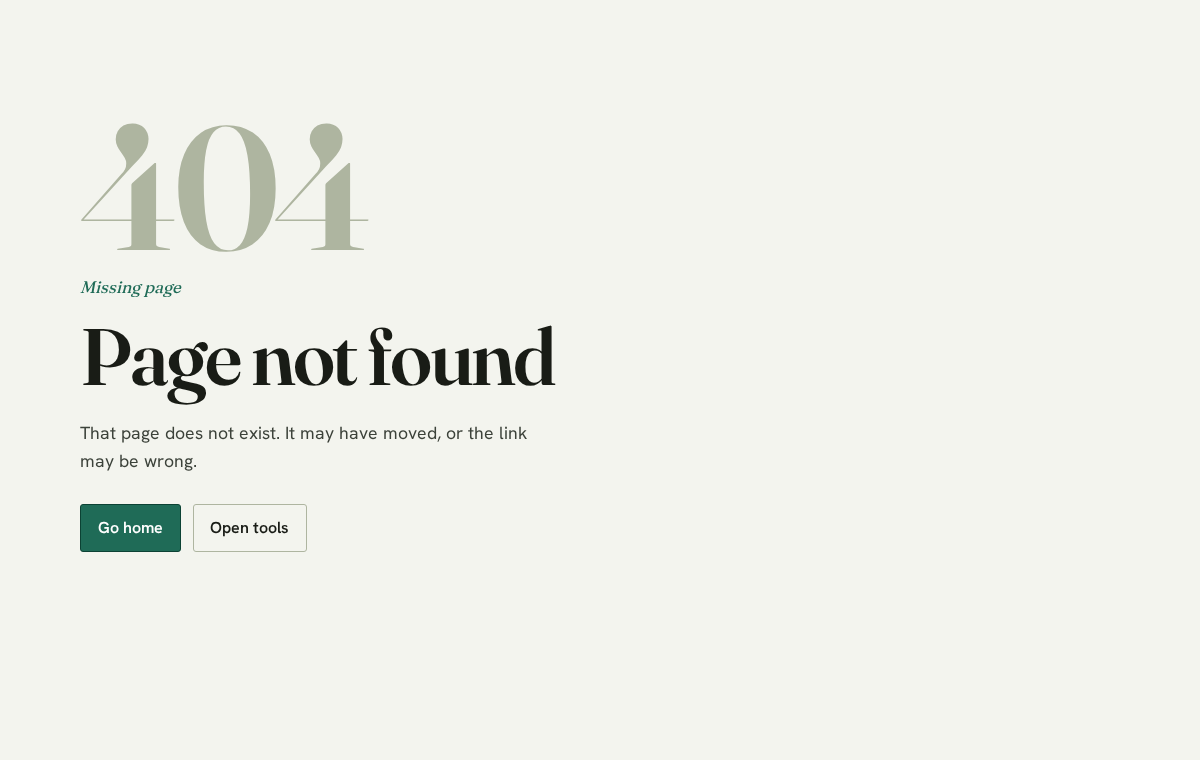
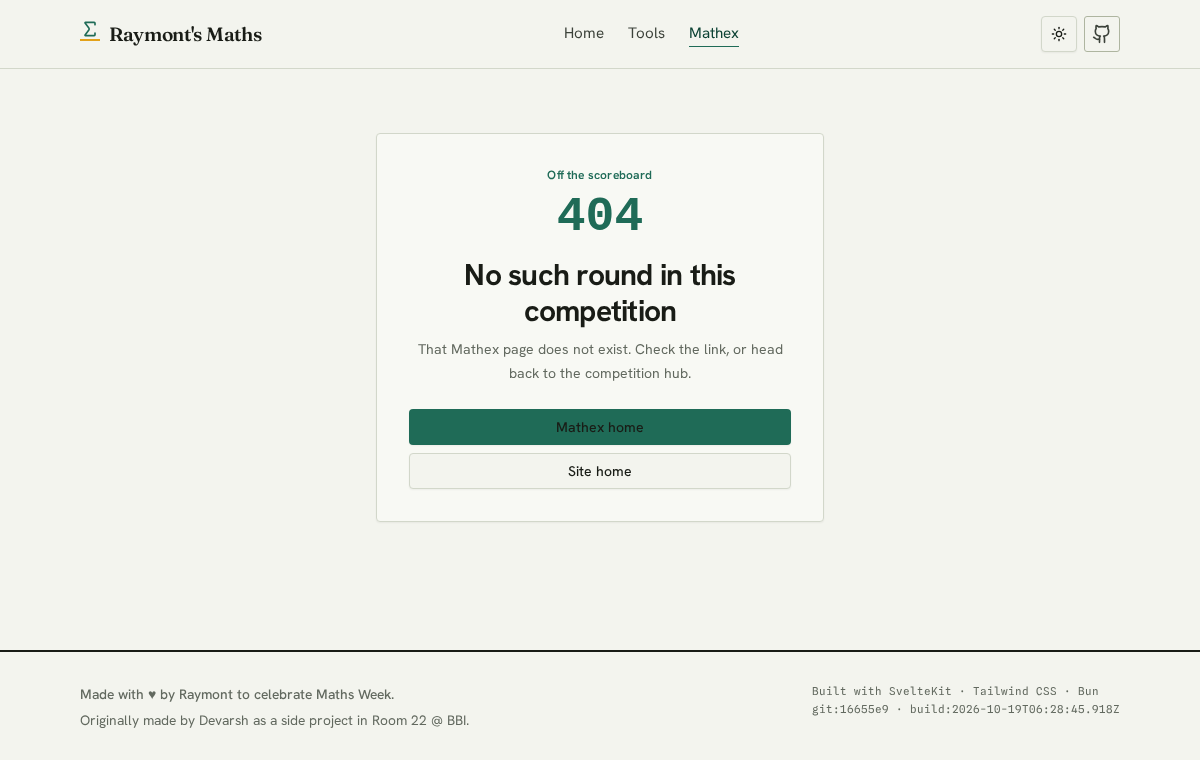
feat(error): show site chrome and Mathex-specific error pages
Route every error through one shared ErrorPage component so the public
site, main site, and Mathex errors look consistent.

- Render the site header and footer on all error pages.
- Give Mathex 404s and errors the Mathex panel, with a filled button to
  the Mathex app and a white button to the site home page.
- Replace generic error copy with maths-themed wording.
- Refresh the after screenshots to match.

diff --git a/src/lib/components/ErrorPage.svelte b/src/lib/components/ErrorPage.svelte
@@ -1,0 +1,125 @@
+<script lang="ts">
+  import "../../app.css";
+  import { page } from "$app/state";
+  import { Button } from "#lib/components/ui/button/index.js";
+  import { Header } from "#lib/components/ui/header/index.js";
+  import SiteNav from "#lib/components/SiteNav.svelte";
+  import SiteFooter from "#lib/components/SiteFooter.svelte";
+  import { reportIssueUrl } from "#lib/utils.js";
+
+  const isMathex = $derived(page.url.pathname.startsWith("/mathex"));
+  const isNotFound = $derived(page.status === 404);
+  const isServerError = $derived(page.status >= 500);
+  const issueUrl = $derived(reportIssueUrl(page.status, page.url.href, page.error?.message));
+
+  const eyebrow = $derived(
+    isNotFound
+      ? isMathex
+        ? "Off the scoreboard"
+        : "Undefined here"
+      : isServerError
+        ? "Calculation failed"
+        : "Request problem"
+  );
+  const title = $derived(
+    isNotFound
+      ? isMathex
+        ? "No such round in this competition"
+        : "This page is not on the number line"
+      : isServerError
+        ? isMathex
+          ? "The scoreboard froze"
+          : "Our working went wrong"
+        : (page.error?.message ?? "Something went wrong")
+  );
+  const lead = $derived(
+    isNotFound
+      ? isMathex
+        ? "That Mathex page does not exist. Check the link, or head back to the competition hub."
+        : "We checked every factor and this page is not among them. It may have moved, or the link may have a typo."
+      : isServerError
+        ? "Something broke on our side. Refresh and try again. If it keeps happening, tell us what you were doing."
+        : "Check the link or the number you entered and try again."
+  );
+</script>
+
+<svelte:head><title>{page.status} · {isMathex ? "Mathex" : "Raymont's Maths"}</title></svelte:head>
+
+<div class="public-site flex min-h-screen flex-col" class:mathex-app={isMathex}>
+  <SiteNav />
+
+  <main class="flex-1">
+    {#if isMathex}
+      <div class="mathex-shell flex min-h-[60vh] items-center justify-center px-3 py-16 sm:px-6">
+        <section class="mathex-panel w-full max-w-md p-6 text-center sm:p-8">
+          <p class="mathex-kicker">{eyebrow}</p>
+          <p class="mt-2 font-mono text-5xl font-bold text-primary">{page.status}</p>
+          <Header size="h2" class="mt-4 text-2xl">{title}</Header>
+          <p class="mt-2 text-sm leading-6 text-muted-foreground">{lead}</p>
+          {#if isServerError}
+            <div class="mt-6 flex flex-col gap-2">
+              <Button onclick={() => location.reload()} class="w-full">Refresh</Button>
+              <Button href={issueUrl} target="_blank" rel="noreferrer" variant="outline" class="w-full"
+                >Report an issue</Button
+              >
+              <Button href="/mathex/app" variant="ghost" class="w-full">Mathex home</Button>
+            </div>
+          {:else if isNotFound}
+            <div class="mt-6 flex flex-col gap-2">
+              <Button href="/mathex/app" class="w-full">Mathex home</Button>
+              <Button href="/" variant="outline" class="w-full">Site home</Button>
+            </div>
+          {:else}
+            <div class="mt-6 flex flex-col gap-2">
+              <Button href="/mathex/app" class="w-full">Mathex home</Button>
+            </div>
+          {/if}
+        </section>
+      </div>
+    {:else}
+      <section class="site-wrap error-page">
+        <p class="error-code" aria-hidden="true">{page.status}</p>
+        <p class="site-eyebrow">{eyebrow}</p>
+        <h1 class="site-title">{title}</h1>
+        <p class="site-lead">{lead}</p>
+        {#if isServerError}
+          <div class="site-actions">
+            <button type="button" class="site-button site-button-primary" onclick={() => location.reload()}
+              >Refresh</button
+            >
+            <a class="site-button site-button-secondary" href={issueUrl} target="_blank" rel="noreferrer"
+              >Report an issue</a
+            >
+            <a class="site-button site-button-secondary" href="/">Go home</a>
+          </div>
+        {:else if isNotFound}
+          <div class="site-actions">
+            <a class="site-button site-button-primary" href="/">Go home</a>
+            <a class="site-button site-button-secondary" href="/tools">Explore the tools</a>
+          </div>
+        {:else}
+          <div class="site-actions">
+            <a class="site-button site-button-primary" href="/">Go home</a>
+          </div>
+        {/if}
+      </section>
+    {/if}
+  </main>
+
+  <SiteFooter />
+</div>
+
+<style>
+  .error-page {
+    padding-block: clamp(3rem, 9vw, 7rem);
+  }
+  .error-code {
+    margin: 0 0 0.5rem;
+    color: var(--line-strong);
+    font-family: "Fraunces", Georgia, serif;
+    font-size: clamp(5.5rem, 22vw, 11rem);
+    font-weight: 600;
+    line-height: 0.9;
+    letter-spacing: -0.04em;
+  }
+</style>

diff --git a/src/routes/+error.svelte b/src/routes/+error.svelte
@@ -1,64 +1,5 @@
 <script lang="ts">
-  import "../app.css";
-  import { page } from "$app/state";
-  import { reportIssueUrl } from "#lib/utils.js";
-
-  const isNotFound = $derived(page.status === 404);
-  const isServerError = $derived(page.status >= 500);
-  const issueUrl = $derived(reportIssueUrl(page.status, page.url.href, page.error?.message));
-
-  const eyebrow = $derived(isNotFound ? "Missing page" : isServerError ? "Server error" : "Request error");
-  const title = $derived(
-    isNotFound
-      ? "Page not found"
-      : isServerError
-        ? "Something went wrong on our end"
-        : (page.error?.message ?? "Something went wrong")
-  );
+  import ErrorPage from "#lib/components/ErrorPage.svelte";
 </script>
 
-<svelte:head><title>{page.status} · Raymont's Maths</title></svelte:head>
-
-<div class="public-site flex min-h-screen flex-col">
-  <section class="site-wrap error-page">
-    <p class="error-code" aria-hidden="true">{page.status}</p>
-    <p class="site-eyebrow">{eyebrow}</p>
-    <h1 class="site-title">{title}</h1>
-    {#if isServerError}
-      <p class="site-lead">Try refreshing the page. If it keeps happening, please report it.</p>
-      <div class="site-actions">
-        <button type="button" class="site-button site-button-primary" onclick={() => location.reload()}>Refresh</button>
-        <a class="site-button site-button-secondary" href={issueUrl} target="_blank" rel="noreferrer">Report an issue</a
-        >
-        <a class="site-button site-button-secondary" href="/">Go home</a>
-      </div>
-    {:else if isNotFound}
-      <p class="site-lead">That page does not exist. It may have moved, or the link may be wrong.</p>
-      <div class="site-actions">
-        <a class="site-button site-button-primary" href="/">Go home</a>
-        <a class="site-button site-button-secondary" href="/tools">Open tools</a>
-      </div>
-    {:else}
-      <p class="site-lead">Check the link and try again.</p>
-      <div class="site-actions">
-        <a class="site-button site-button-primary" href="/">Go home</a>
-      </div>
-    {/if}
-  </section>
-</div>
-
-<style>
-  .error-page {
-    position: relative;
-    padding-block: clamp(3rem, 9vw, 7rem);
-  }
-  .error-code {
-    margin: 0 0 0.5rem;
-    color: var(--line-strong);
-    font-family: "Fraunces", Georgia, serif;
-    font-size: clamp(5.5rem, 22vw, 11rem);
-    font-weight: 600;
-    line-height: 0.9;
-    letter-spacing: -0.04em;
-  }
-</style>
+<ErrorPage />

diff --git a/src/routes/(mathex)/mathex/app/+error.svelte b/src/routes/(mathex)/mathex/app/+error.svelte
@@ -1,54 +1,5 @@
 <script lang="ts">
-  import { page } from "$app/state";
-  import { Button } from "#lib/components/ui/button/index.js";
-  import { Header } from "#lib/components/ui/header/index.js";
-  import { reportIssueUrl } from "#lib/utils.js";
-
-  const isNotFound = $derived(page.status === 404);
-  const isServerError = $derived(page.status >= 500);
-  const issueUrl = $derived(reportIssueUrl(page.status, page.url.href, page.error?.message));
-
-  const eyebrow = $derived(isNotFound ? "Missing page" : isServerError ? "Server error" : "Request error");
-  const title = $derived(
-    isNotFound
-      ? "Page not found"
-      : isServerError
-        ? "Something went wrong"
-        : (page.error?.message ?? "Something went wrong")
-  );
+  import ErrorPage from "#lib/components/ErrorPage.svelte";
 </script>
 
-<svelte:head><title>{page.status} - Mathex</title></svelte:head>
-
-<div class="mathex-shell flex min-h-screen items-center justify-center px-3 py-10 sm:px-6">
-  <main class="mathex-panel w-full max-w-md p-6 sm:p-8">
-    <p class="mathex-kicker">{eyebrow}</p>
-    <p class="mt-2 font-mono text-5xl font-bold text-primary">{page.status}</p>
-    <Header size="h2" class="mt-4 text-2xl">{title}</Header>
-    {#if isServerError}
-      <p class="mt-2 text-sm leading-6 text-muted-foreground">
-        Try refreshing. If it keeps happening, please report it.
-      </p>
-      <div class="mt-6 flex flex-col gap-2">
-        <Button onclick={() => location.reload()} class="w-full">Refresh</Button>
-        <Button href={issueUrl} target="_blank" rel="noreferrer" variant="outline" class="w-full"
-          >Report an issue</Button
-        >
-        <Button href="/mathex/app" variant="ghost" class="w-full">Mathex home</Button>
-      </div>
-    {:else if isNotFound}
-      <p class="mt-2 text-sm leading-6 text-muted-foreground">
-        That mathex page does not exist. It may have moved, or the link may be wrong.
-      </p>
-      <div class="mt-6 flex flex-col gap-2">
-        <Button href="/mathex/app" class="w-full">Mathex home</Button>
-        <Button href="/mathex/app/play" variant="outline" class="w-full">Join a competition</Button>
-      </div>
-    {:else}
-      <p class="mt-2 text-sm leading-6 text-muted-foreground">Check the link and try again.</p>
-      <div class="mt-6 flex flex-col gap-2">
-        <Button href="/mathex/app" class="w-full">Mathex home</Button>
-      </div>
-    {/if}
-  </main>
-</div>
+<ErrorPage />

diff --git a/src/routes/(main)/+error.svelte b/src/routes/(main)/+error.svelte
@@ -1,59 +1,5 @@
 <script lang="ts">
-  import { page } from "$app/state";
-  import { reportIssueUrl } from "#lib/utils.js";
-
-  const isNotFound = $derived(page.status === 404);
-  const isServerError = $derived(page.status >= 500);
-  const issueUrl = $derived(reportIssueUrl(page.status, page.url.href, page.error?.message));
-
-  const eyebrow = $derived(isNotFound ? "Missing page" : isServerError ? "Server error" : "Request error");
-  const title = $derived(
-    isNotFound
-      ? "Page not found"
-      : isServerError
-        ? "Something went wrong"
-        : (page.error?.message ?? "Something went wrong")
-  );
+  import ErrorPage from "#lib/components/ErrorPage.svelte";
 </script>
 
-<svelte:head><title>{page.status} · Raymont's Maths</title></svelte:head>
-
-<section class="site-wrap error-page">
-  <p class="error-code" aria-hidden="true">{page.status}</p>
-  <p class="site-eyebrow">{eyebrow}</p>
-  <h1 class="site-title">{title}</h1>
-  {#if isServerError}
-    <p class="site-lead">Try refreshing the page. If it keeps happening, please report it.</p>
-    <div class="site-actions">
-      <button type="button" class="site-button site-button-primary" onclick={() => location.reload()}>Refresh</button>
-      <a class="site-button site-button-secondary" href={issueUrl} target="_blank" rel="noreferrer">Report an issue</a>
-      <a class="site-button site-button-secondary" href="/">Go home</a>
-    </div>
-  {:else if isNotFound}
-    <p class="site-lead">That page does not exist. It may have moved, or the link may be wrong.</p>
-    <div class="site-actions">
-      <a class="site-button site-button-primary" href="/">Go home</a>
-      <a class="site-button site-button-secondary" href="/tools">Open tools</a>
-    </div>
-  {:else}
-    <p class="site-lead">Check the link and try again.</p>
-    <div class="site-actions">
-      <a class="site-button site-button-primary" href="/">Go home</a>
-    </div>
-  {/if}
-</section>
-
-<style>
-  .error-page {
-    padding-block: clamp(3rem, 9vw, 7rem);
-  }
-  .error-code {
-    margin: 0 0 0.5rem;
-    color: var(--line-strong);
-    font-family: "Fraunces", Georgia, serif;
-    font-size: clamp(5.5rem, 22vw, 11rem);
-    font-weight: 600;
-    line-height: 0.9;
-    letter-spacing: -0.04em;
-  }
-</style>
+<ErrorPage />
